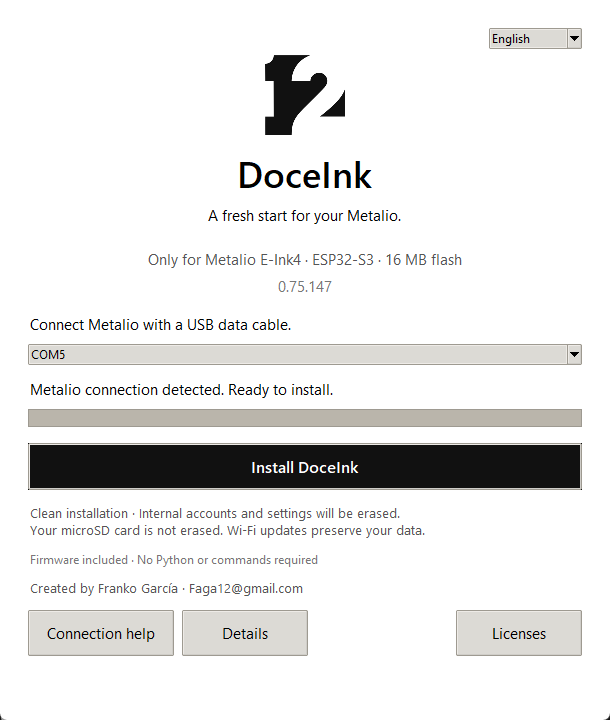
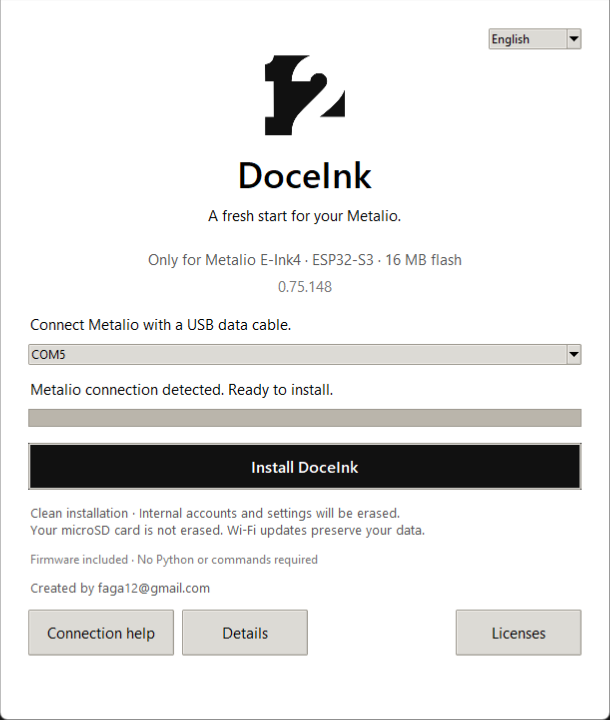
Release 0.75.148 with Information layout and idle redraw fix

diff --git a/installer/app.py b/installer/app.py
@@ -10,7 +10,7 @@ import re
 import sys
 import threading
 
-VERSION = '0.75.147'
+VERSION = '0.75.148'
 FLASH_BYTES = 16 * 1024 * 1024
 TEXT = {
  'title': ('DoceInk Setup', 'Instalar DoceInk'),
@@ -34,7 +34,7 @@ TEXT = {
  'help_text': ('Disable USB disk mode on Metalio and close serial-terminal apps. Use a data cable. If automatic connection fails, hold the physical BOOT button while restarting Metalio, release it, then retry. BOOT is the GPIO0 hardware button, not the red on-screen key. The port may change. If several devices are listed, disconnect the others or select your Metalio.', 'Desactiva Disco USB y cierra las aplicaciones de puerto serie. Usa un cable de datos. Si no conecta automáticamente, mantén el botón físico BOOT al reiniciar Metalio, suéltalo y reintenta. BOOT es el botón de hardware GPIO0, no el botón rojo de la pantalla. El puerto puede cambiar. Si aparecen varios dispositivos, desconecta los demás o selecciona tu Metalio.'),
  'details': ('Details', 'Detalles'),
  'licenses': ('Licenses', 'Licencias'),
- 'credit': ('Created by Franko García · Faga12@gmail.com', 'Creado por Franko García · Faga12@gmail.com'),
+ 'credit': ('Created by faga12@gmail.com', 'Creado por faga12@gmail.com'),
  'offline': ('Firmware included · No Python or commands required', 'Firmware incluido · Sin Python ni comandos'),
 }
 

diff --git a/docs/INSTALACION.md b/docs/INSTALACION.md
@@ -6,7 +6,7 @@
 
 ## Windows: conectar y ejecutar
 
-1. [Descarga DoceInk Setup 0.75.147](https://github.com/Faga250885/Doceink/releases/download/v0.75.147/DoceInk-Setup-0.75.147.exe).
+1. [Descarga DoceInk Setup 0.75.148](https://github.com/Faga250885/Doceink/releases/download/v0.75.148/DoceInk-Setup-0.75.148.exe).
 2. Conecta **Metalio E-Ink4** con un cable USB de datos. Desactiva Disco USB si está activo.
 3. Abre el `.exe`. Incluye firmware y herramientas: no necesitas Python, comandos ni otra descarga.
 4. El instalador selecciona automáticamente una conexión USB ESP compatible cuando solo hay una. Si hay varios dispositivos, selecciona tu Metalio o desconecta los demás.
@@ -45,7 +45,7 @@ Metalio debería reiniciarse y mostrar el símbolo con **DoceInk** debajo durant
 
 ## Instalación avanzada: macOS/Linux o recuperación manual
 
-Descarga el [ZIP de imagen completa](https://github.com/Faga250885/Doceink/releases/download/v0.75.147/Metalio-0.75.147-instalacion-limpia.zip) y extráelo. Su imagen se llama `Metalio-instalacion-limpia.bin`. En Windows normalmente basta con el `.exe`.
+Descarga el [ZIP de imagen completa](https://github.com/Faga250885/Doceink/releases/download/v0.75.148/Metalio-0.75.148-instalacion-limpia.zip) y extráelo. Su imagen se llama `Metalio-instalacion-limpia.bin`. En Windows normalmente basta con el `.exe`.
 
 En una terminal dentro de la carpeta extraída:
 
@@ -58,7 +58,7 @@ python -m pip install esptool==4.12.0
 Comprueba la imagen con `shasum -a 256 Metalio-instalacion-limpia.bin` en macOS o `sha256sum Metalio-instalacion-limpia.bin` en Linux. La huella debe ser:
 
 ```text
[2 lines of base64/hex data omitted]
 ```
 
 Sustituye `PUERTO` por el puerto serie real, normalmente `/dev/cu.usbmodem…` en macOS o `/dev/ttyACM…` en Linux. **Este comando escribe directamente y borra los ajustes internos; no muestra la confirmación del instalador de Windows.**
@@ -73,6 +73,6 @@ Se utiliza [esptool 4.12.0 de Espressif](https://pypi.org/project/esptool/4.12.0
 
 La compilación del firmware, las pruebas del arranque, pantalla y entrada táctil, y las pruebas de seguridad del instalador pasaron. El ejecutable empaquetado pasó las comprobaciones de integridad e interfaz sin abrir puertos USB. **La instalación limpia completa en un Metalio físico sigue pendiente de validación.**
 
-La imagen completa incluye arranque, particiones, aplicación, fuentes y recursos del sistema. Las regiones NVS, PHY, segunda partición de aplicación y volcados de errores están vacías. Consulta el [manifiesto](releases/v0.75.147-manifest.json).
+La imagen completa incluye arranque, particiones, aplicación, fuentes y recursos del sistema. Las regiones NVS, PHY, segunda partición de aplicación y volcados de errores están vacías. Consulta el [manifiesto](releases/v0.75.148-manifest.json).
 
-La imagen mide 16 MB porque incluye espacio vacío. La aplicación ocupa **4.988.880 bytes**. Ni la imagen completa ni el `.exe` sirven como archivo OTA: para actualizar se utiliza `Doceink-EInk4.bin`.
+La imagen mide 16 MB porque incluye espacio vacío. La aplicación ocupa **4.989.072 bytes**. Ni la imagen completa ni el `.exe` sirven como archivo OTA: para actualizar se utiliza `Doceink-EInk4.bin`.

diff --git a/docs/INSTALLATION.md b/docs/INSTALLATION.md
@@ -6,7 +6,7 @@
 
 ## Windows: connect and run
 
-1. [Download DoceInk Setup 0.75.147](https://github.com/Faga250885/Doceink/releases/download/v0.75.147/DoceInk-Setup-0.75.147.exe).
+1. [Download DoceInk Setup 0.75.148](https://github.com/Faga250885/Doceink/releases/download/v0.75.148/DoceInk-Setup-0.75.148.exe).
 2. Connect **Metalio E-Ink4** with a USB data cable. Disable USB disk mode if it is active.
 3. Open the downloaded `.exe`. It includes the firmware and tools; you do not need Python, a terminal or another download.
 4. The installer automatically selects a single matching ESP USB connection. If several devices are connected, select your Metalio or disconnect the others.
@@ -47,7 +47,7 @@ Metalio should restart and show the DoceInk symbol and name for two seconds befo
 
 ## Advanced installation: macOS/Linux or manual recovery
 
-Download the [full-image ZIP](https://github.com/Faga250885/Doceink/releases/download/v0.75.147/Metalio-0.75.147-instalacion-limpia.zip) and extract it. The image is `Metalio-instalacion-limpia.bin`; that filename is retained for compatibility. Windows users normally do not need this ZIP.
+Download the [full-image ZIP](https://github.com/Faga250885/Doceink/releases/download/v0.75.148/Metalio-0.75.148-instalacion-limpia.zip) and extract it. The image is `Metalio-instalacion-limpia.bin`; that filename is retained for compatibility. Windows users normally do not need this ZIP.
 
 In a terminal inside the extracted folder:
 
@@ -60,7 +60,7 @@ python -m pip install esptool==4.12.0
 Check the full image with `shasum -a 256 Metalio-instalacion-limpia.bin` on macOS or `sha256sum Metalio-instalacion-limpia.bin` on Linux. Expected SHA-256:
 
 ```text
[2 lines of base64/hex data omitted]
 ```
 
 Replace `PORT` with the actual serial port. Typical names are `/dev/cu.usbmodem…` on macOS or `/dev/ttyACM…` on Linux. **This manual command writes directly, erases internal settings and does not show the Windows installer's confirmation.**
@@ -75,6 +75,6 @@ This uses [Espressif's esptool 4.12.0](https://pypi.org/project/esptool/4.12.0/)
 
 The firmware compiles successfully. Startup rendering, display/input regression tests and installer safety tests passed. The packaged Windows executable passed firmware-integrity and GUI smoke tests without opening a USB port. **A full clean installation on a physical Metalio remains pending validation.**
 
-The complete image contains the bootloader, partition table, application, fonts and system resources. NVS, PHY data, the second application partition and crash-dump regions are blank. See the [manifest](releases/v0.75.147-manifest.json).
+The complete image contains the bootloader, partition table, application, fonts and system resources. NVS, PHY data, the second application partition and crash-dump regions are blank. See the [manifest](releases/v0.75.148-manifest.json).
 
-The image is 16 MB including empty space. The application is **4,988,880 bytes**. Neither the complete image nor the `.exe` is an OTA file; use `Doceink-EInk4.bin` for firmware updates.
+The image is 16 MB including empty space. The application is **4,989,072 bytes**. Neither the complete image nor the `.exe` is an OTA file; use `Doceink-EInk4.bin` for firmware updates.

diff --git a/README.es.md b/README.es.md
@@ -4,11 +4,11 @@
 
 Firmware para **Metalio E-Ink4**, el lector de tinta electrónica con ESP32-S3 y memoria flash de 16 MB. Libros, tareas locales, ChatGPT por voz, noticias RSS, clima, reloj, calculadora y juegos en una misma interfaz.
 
-**Versión documentada: 0.75.147.** Este repositorio reúne descargas y documentación para instalar y utilizar Metalio.
+**Versión documentada: 0.75.148.** Este repositorio reúne descargas y documentación para instalar y utilizar Metalio.
 
 ## Instalar desde cero
 
-### [Descargar para Windows — conecta Metalio y ejecuta](https://github.com/Faga250885/Doceink/releases/download/v0.75.147/DoceInk-Setup-0.75.147.exe)
+### [Descargar para Windows — conecta Metalio y ejecuta](https://github.com/Faga250885/Doceink/releases/download/v0.75.148/DoceInk-Setup-0.75.148.exe)
 
 **Conecta Metalio → abre el `.exe` → pulsa Instalar.** Sin Python, comandos ni descargar el firmware por separado. Se abre en inglés y permite cambiar a español.
 
@@ -24,7 +24,7 @@ El paquete se genera con los archivos del firmware y sus recursos: **no incluye 
 
 | Quiero… | Archivo o método | Qué ocurre con mis datos |
 | --- | --- | --- |
-| Instalar desde cero en un Metalio compatible | `DoceInk-Setup-0.75.147.exe`, por USB | Reemplaza toda la memoria interna; conserva la microSD |
+| Instalar desde cero en un Metalio compatible | `DoceInk-Setup-0.75.148.exe`, por USB | Reemplaza toda la memoria interna; conserva la microSD |
 | Actualizar un Metalio que ya utiliza Doceink | Ajustes → Sistema → Información → Comprobar actualización | Conserva cuentas, ajustes y archivos |
 | Obtener el firmware de actualización | `Doceink-EInk4.bin` en Releases | Es la aplicación OTA, no un instalador completo |
 
@@ -32,7 +32,7 @@ El paquete se genera con los archivos del firmware y sus recursos: **no incluye 
 
 - [Última publicación y descargas](https://github.com/Faga250885/Doceink/releases/latest)
 - [Actualizar conservando los datos](docs/ACTUALIZACIONES.md)
-- [Huellas SHA-256 de 0.75.147](SHA256SUMS.txt)
+- [Huellas SHA-256 de 0.75.148](SHA256SUMS.txt)
 - [Historial de versiones](https://github.com/Faga250885/Doceink/releases)
 
 ## Qué incluye
@@ -72,4 +72,4 @@ Este instalador está preparado **exclusivamente para Metalio E-Ink4, ESP32-S3, 
 
 El firmware se apoya en ESP-IDF, LVGL y otros componentes de terceros, que conservan sus respectivas licencias. La licencia principal no sustituye las de esos componentes.
 
-Creado por **Franko García** · Faga12@gmail.com
+Creado por faga12@gmail.com

diff --git a/README.md b/README.md
@@ -6,11 +6,11 @@
 
 Firmware for **Metalio E-Ink4**, an e-paper reader powered by an ESP32-S3 with 16 MB of flash. Books, local tasks, voice conversations with ChatGPT, RSS news, weather, a clock, a calculator and games in one interface.
 
-**Documented version: 0.75.147.** This repository provides downloads and documentation for installing and using Metalio.
+**Documented version: 0.75.148.** This repository provides downloads and documentation for installing and using Metalio.
 
 ## Install from scratch
 
-### [Download for Windows — connect Metalio and run](https://github.com/Faga250885/Doceink/releases/download/v0.75.147/DoceInk-Setup-0.75.147.exe)
+### [Download for Windows — connect Metalio and run](https://github.com/Faga250885/Doceink/releases/download/v0.75.148/DoceInk-Setup-0.75.148.exe)
 
 **Connect Metalio → open the `.exe` → click Install.** No Python, terminal commands or separate firmware download. English by default; Spanish is available in the language selector.
 
@@ -26,7 +26,7 @@ The package is built from firmware build outputs and system resources. **It cont
 
 | I want to… | File or method | What happens to my data |
 | --- | --- | --- |
-| Install from scratch on compatible hardware | `DoceInk-Setup-0.75.147.exe`, over USB | Replaces internal flash; preserves the microSD card |
+| Install from scratch on compatible hardware | `DoceInk-Setup-0.75.148.exe`, over USB | Replaces internal flash; preserves the microSD card |
 | Update Metalio with Doceink already installed | Settings → System → Information → Check for updates | Preserves accounts, settings and files |
 | Download the update firmware | `Doceink-EInk4.bin` in Releases | Contains the OTA application, not a complete installer |
 
@@ -34,7 +34,7 @@ The package is built from firmware build outputs and system resources. **It cont
 
 - [Latest release and downloads](https://github.com/Faga250885/Doceink/releases/latest)
 - [Update without erasing your data](docs/UPDATES.md)
-- [SHA-256 checksums for 0.75.147](SHA256SUMS.txt)
+- [SHA-256 checksums for 0.75.148](SHA256SUMS.txt)
 - [Release history](https://github.com/Faga250885/Doceink/releases)
 
 ## Features
@@ -74,4 +74,4 @@ This installer is intended **only for Metalio E-Ink4 with an ESP32-S3 and 16 MB 
 
 The firmware uses ESP-IDF, LVGL and other third-party components, which retain their respective licenses. The main license does not replace those component licenses.
 
-Created by **Franko García** · Faga12@gmail.com
+Created by faga12@gmail.com

diff --git a/docs/ACTUALIZACIONES.md b/docs/ACTUALIZACIONES.md
@@ -16,20 +16,18 @@ Las actualizaciones normales conservan las cuentas, los ajustes y los archivos d
 ## Descargas
 
 - [Última versión publicada](https://github.com/Faga250885/Doceink/releases/latest).
-- [Versión documentada 0.75.147](https://github.com/Faga250885/Doceink/releases/tag/v0.75.147).
-- [Firmware OTA 0.75.147](https://github.com/Faga250885/Doceink/releases/download/v0.75.147/Doceink-EInk4.bin).
+- [Versión documentada 0.75.148](https://github.com/Faga250885/Doceink/releases/tag/v0.75.148).
+- [Firmware OTA 0.75.148](https://github.com/Faga250885/Doceink/releases/download/v0.75.148/Doceink-EInk4.bin).
 
 `Doceink-EInk4.bin` es únicamente la aplicación de actualización. No contiene el arranque, la tabla de particiones ni todo el paquete de recursos necesario para empezar desde cero. Para eso utiliza la [guía de instalación limpia](INSTALACION.md).
 
 No utilices `Metalio-instalacion-limpia.bin` en el actualizador Wi-Fi. No intercambies los archivos por tener ambos extensión `.bin`.
 
-## Novedades de 0.75.147
+## Novedades de 0.75.148
 
-- Símbolo original y nombre DoceInk durante dos segundos al encender.
-- Instalador Windows en un único ejecutable, firmware incluido, selección automática de puerto e interfaz en inglés y español.
-- Documentación pública principalmente en inglés, con traducción completa al español.
-- Las actualizaciones Wi-Fi siguen conservando cuentas, ajustes y datos de la microSD.
+- Corregidos los repintados repetidos de Información en reposo; los botones de actualización solo se repintan cuando cambia su estado.
+- Información del firmware con borde negro fino y el mismo ancho que el panel inferior.
+- Botón negro para comprobar actualizaciones y crédito pequeño centrado debajo: «Creado por faga12@gmail.com».
+- Las actualizaciones por Wi-Fi conservan cuentas, ajustes y datos de la microSD.
 
-La aplicación ocupa 4.988.880 bytes. No se atribuye un porcentaje de mejora de velocidad. Las notas anteriores están en [Releases](https://github.com/Faga250885/Doceink/releases).
-
-- Crédito del creador en el instalador y en la tarjeta Firmware: Franko García · Faga12@gmail.com.
+La aplicación ocupa 4.989.072 bytes. No se atribuye un porcentaje de mejora de velocidad. Las notas anteriores están en [Releases](https://github.com/Faga250885/Doceink/releases).

diff --git a/docs/UPDATES.md b/docs/UPDATES.md
@@ -16,20 +16,18 @@ Normal updates preserve accounts, settings and microSD files. A clean USB instal
 ## Downloads
 
 - [Latest release](https://github.com/Faga250885/Doceink/releases/latest).
-- [Documented version: 0.75.147](https://github.com/Faga250885/Doceink/releases/tag/v0.75.147).
-- [OTA firmware: 0.75.147](https://github.com/Faga250885/Doceink/releases/download/v0.75.147/Doceink-EInk4.bin).
+- [Documented version: 0.75.148](https://github.com/Faga250885/Doceink/releases/tag/v0.75.148).
+- [OTA firmware: 0.75.148](https://github.com/Faga250885/Doceink/releases/download/v0.75.148/Doceink-EInk4.bin).
 
 `Doceink-EInk4.bin` contains only the update application. It does not include the bootloader, partition table or complete resource package needed for a fresh installation. For that, use the [clean installation guide](INSTALLATION.md).
 
 Do not use `Metalio-instalacion-limpia.bin` in the Wi-Fi updater. These files are not interchangeable just because both end in `.bin`.
 
-## Changes in 0.75.147
+## Changes in 0.75.148
 
-- Creator credit in the installer and in the Firmware card: Franko García · Faga12@gmail.com.
+- Fixed repeated redraws in Information while idle; shared update buttons now redraw only when their busy state changes.
+- Firmware information now shares a thin black outline and full width with the information panel below.
+- Black Check for updates button, with a small centered email-only creator credit underneath.
+- Wi-Fi updates continue to preserve user accounts, settings and microSD data.
 
-- Original DoceInk symbol and name displayed for two seconds at power-on.
-- One Windows executable with firmware included, automatic port selection and English/Spanish UI.
-- English-first public documentation with full Spanish guides.
-- Normal Wi-Fi updates continue to preserve accounts, settings and microSD data.
-
-The application is 4,988,880 bytes. No percentage speed improvement is claimed. See [Releases](https://github.com/Faga250885/Doceink/releases) for earlier versions.
+The application is 4,989,072 bytes. No percentage speed improvement is claimed. See [Releases](https://github.com/Faga250885/Doceink/releases) for earlier versions.

diff --git a/docs/FAQ.md b/docs/FAQ.md
@@ -18,7 +18,7 @@ No. The full image replaces internal flash but does not format the card. Use an 
 
 ### Why is the image 16 MB if the firmware is smaller?
 
-The full image includes the bootloader, fonts, resources and empty regions. In 0.75.147, the application uses 4,988,880 bytes of a 5 MiB partition, leaving 254,000 bytes in that partition. That is not user storage for books; personal files are stored on microSD.
+The full image includes the bootloader, fonts, resources and empty regions. In 0.75.148, the application uses 4,989,072 bytes of a 5 MiB partition, leaving 253,808 bytes in that partition. That is not user storage for books; personal files are stored on microSD.
 
 ### Can I install the full image over Wi-Fi?
 
@@ -58,7 +58,7 @@ Not in this version. ChatGPT and task dictation use Wi-Fi. Tasks are saved local
 
 ### Do I need Python or commands on Windows?
 
-No. Download `DoceInk-Setup-0.75.147.exe`, connect Metalio and run it. Select Spanish if preferred. The ZIP and terminal commands are optional alternatives for manual installation or other operating systems.
+No. Download `DoceInk-Setup-0.75.148.exe`, connect Metalio and run it. Select Spanish if preferred. The ZIP and terminal commands are optional alternatives for manual installation or other operating systems.
 
 ### Where is the source project for building the firmware?
 

diff --git a/docs/PREGUNTAS-FRECUENTES.md b/docs/PREGUNTAS-FRECUENTES.md
@@ -18,7 +18,7 @@ No. La imagen completa reemplaza la memoria interna, pero no formatea la tarjeta
 
 ### ¿Por qué la imagen mide 16 MB si el firmware ocupa menos?
 
-La imagen completa incluye el arranque, las fuentes, los recursos y las regiones vacías. En 0.75.147 la aplicación ocupa 4.988.880 bytes de una partición de 5 MiB. Quedan 254.000 bytes en esa partición; eso no es un espacio de usuario para guardar libros. Los archivos personales se guardan en la microSD.
+La imagen completa incluye el arranque, las fuentes, los recursos y las regiones vacías. En 0.75.148 la aplicación ocupa 4.989.072 bytes de una partición de 5 MiB. Quedan 253.808 bytes en esa partición; eso no es un espacio de usuario para guardar libros. Los archivos personales se guardan en la microSD.
 
 ### ¿Puedo instalar la imagen completa por Wi-Fi?
 

diff --git a/installer/README.md b/installer/README.md
@@ -23,8 +23,8 @@ The source distribution attached to the release includes the installer source an
 The packaged executable also supports internal verification modes:
 
 ```powershell
-.\DoceInk-Setup-0.75.147.exe --self-test result.json
-.\DoceInk-Setup-0.75.147.exe --smoke-test gui.json
+.\DoceInk-Setup-0.75.148.exe --self-test result.json
+.\DoceInk-Setup-0.75.148.exe --smoke-test gui.json
 ```
 
 These verify included resources and the GUI without enumerating or opening serial ports. They do not replace a real hardware installation test.

diff --git a/installer/README.es.md b/installer/README.es.md
@@ -23,8 +23,8 @@ El paquete de código adjunto a la publicación incluye el instalador y los arch
 El ejecutable admite estos modos de verificación internos:
 
 ```powershell
-.\DoceInk-Setup-0.75.147.exe --self-test result.json
-.\DoceInk-Setup-0.75.147.exe --smoke-test gui.json
+.\DoceInk-Setup-0.75.148.exe --self-test result.json
+.\DoceInk-Setup-0.75.148.exe --smoke-test gui.json
 ```
 
 Comprueban recursos e interfaz sin enumerar ni abrir puertos serie. No sustituyen una prueba de instalación en hardware.
